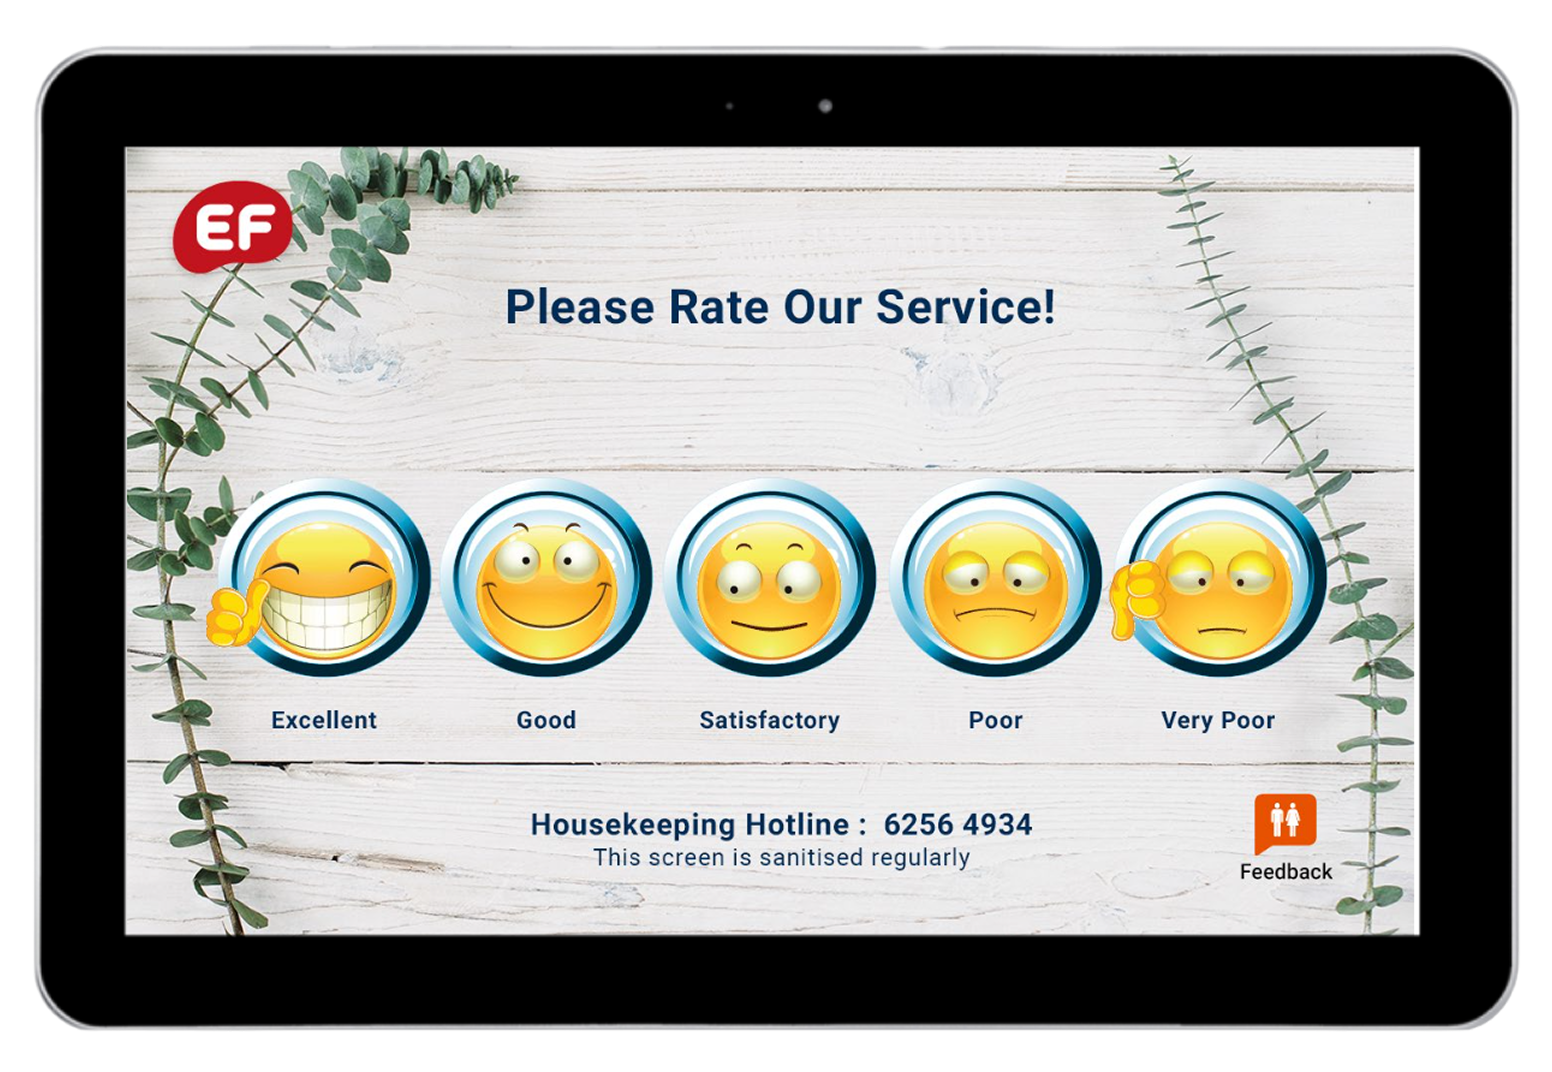
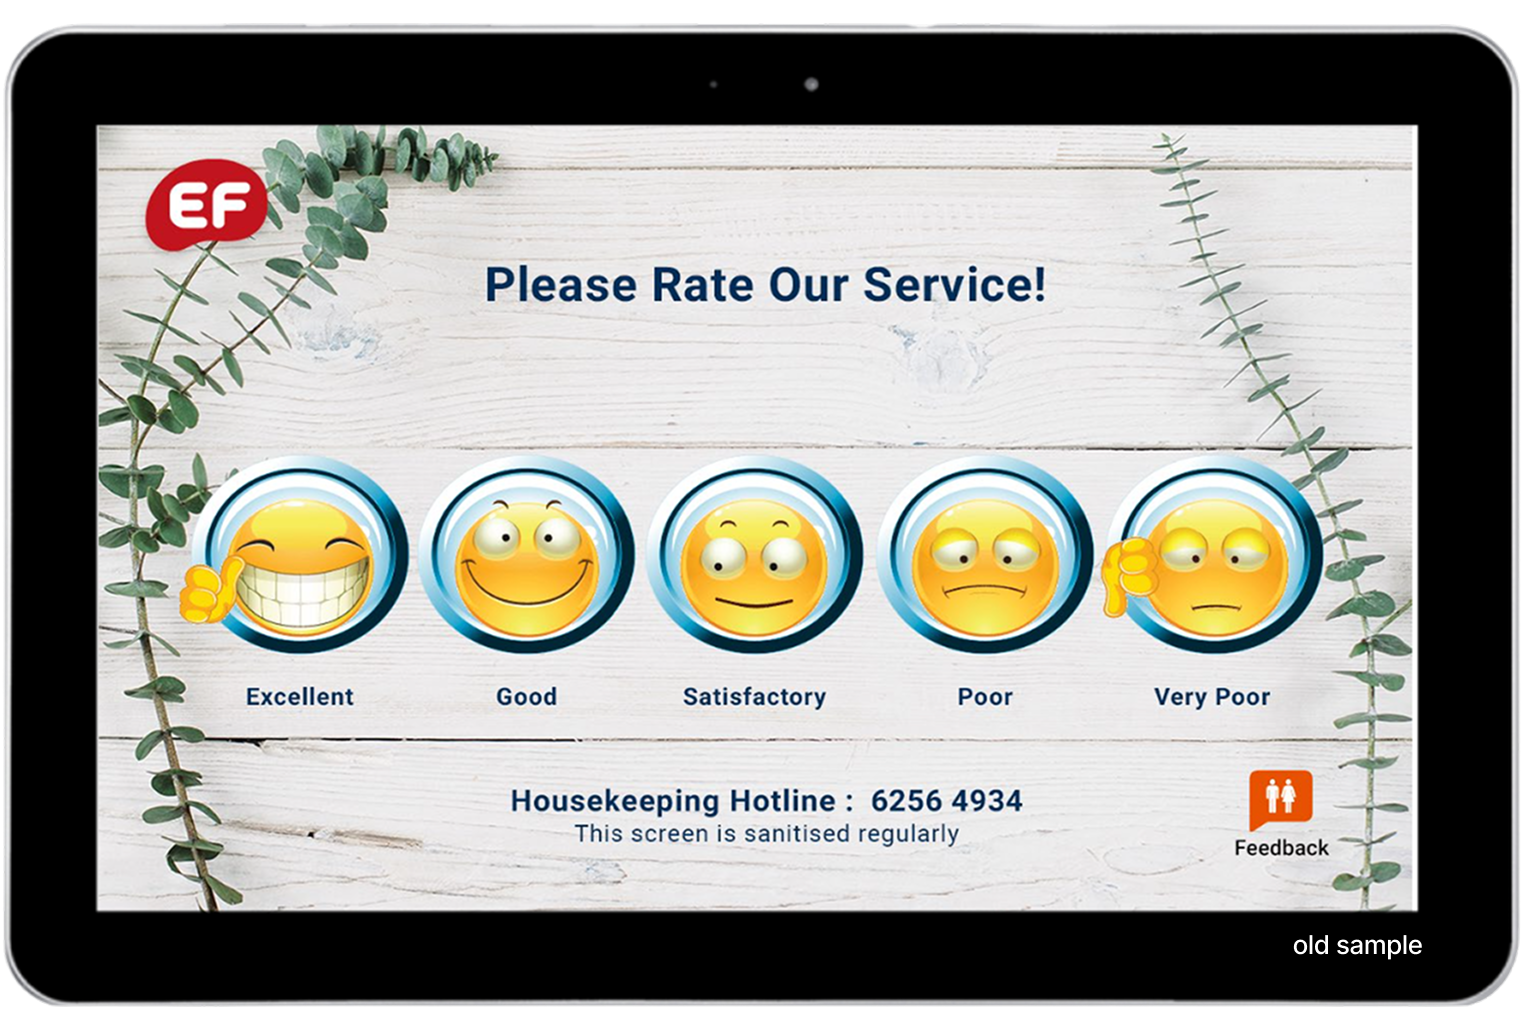
spacing and content
tried to update spacing, still needs some adjustment. added content for esfb

diff --git a/style.css b/style.css
@@ -127,13 +127,13 @@ img { display: block; max-width: 100%; }
      gap: 20px;
      width: 100%;
      align-items: stretch;
-}
+    }
 
-.project-row > div {
-  flex: 1;
-  width: 100%;
-  min-height: 50px; /* Adjust height to fit your desired card height */
-}
+    .project-row > div {
+    flex: 1;
+    width: 100%;
+    min-height: 50px; /* Adjust height to fit your desired card height */
+    }
 
     .project-frame {
       background: var(--surface);
@@ -147,12 +147,13 @@ img { display: block; max-width: 100%; }
     .project-frame--portrait { aspect-ratio: 3/4; }
     .project-frame--wide { aspect-ratio: 16/7; }
 
-    .project-info { display: flex;
+    .project-info { 
+    display: flex;
     flex-direction: column;
     justify-content: flex-start;
-    gap: 16px;
-    padding: 8px 0;
-}
+    gap: 10px;
+    padding: 0px 0;
+    }
     .project-num { font-family: var(--mono); font-size: 0.7rem; color: var(--fg-faint); }
     .project-discipline { font-family: var(--mono); font-size: 0.7rem; color: var(--accent-dark); display: flex; align-items: center; gap: 8px; margin-bottom: 4px; }
     .project-discipline::before { content: ''; width: 20px; height: 1px; background: var(--accent-dark); display: block; }
@@ -1004,6 +1005,15 @@ body.cursor-hover .cursor-dot { opacity: 0; }
   transition: background-size 0.4s ease; /* Adds a smooth transition effect */
 }
 
+.project-esfbuserflow{
+  background-image: url("images/eSFBuserfbflow.jpg");
+  aspect-ratio: 16 / 9; 
+  background-size: 88%;      /* Scales the image to completely cover the div */
+  background-position: center;  /* Centers the image within the container */
+  background-repeat: no-repeat; 
+  transition: background-size 0.4s ease; /* Adds a smooth transition effect */
+}
+
 .project-outcome {
   max-width: 800px;
   font-size: 0.7rem;
@@ -1044,6 +1054,7 @@ body.cursor-hover .cursor-dot { opacity: 0; }
 .project-info{
   display: flex;
   max-width: 1200px;
+  align-content: flex-start;
   flex-direction: column;
   justify-content: space-between;
   gap: 20px;

diff --git a/efs.html b/efs.html
@@ -63,7 +63,7 @@
     </div>
     <div class="client-desc-row">
       <p class="client-desc">Sole UI/UX Designer, worked on transitioning systems to SAAS web and mobile applications for B2B facility management needs.</p>
-      <div class="efs-tags-wrap" style="text-align: right";>
+      <div class="clients-tags-wrap" style="text-align: right";>
         <span class="tag">Design System</span>
         <span class="tag">UI/UX</span>
         <span class="tag">Branding</span>
@@ -137,6 +137,8 @@
       <div class="project-esfbpost project-esfbpost--landscape"></div>
       <div class="project-smiley project-smiley--landscape"></div>
       <div class="project-oldsample project-oldsample--landscape"></div>
+      <div class="project-esfbuserflow project-esfbuserflow--landscape"></div>
+
     <!-- <div class="project-ecallmap project-ecallmap--landscape"></div> -->
     </div>
   </div>
